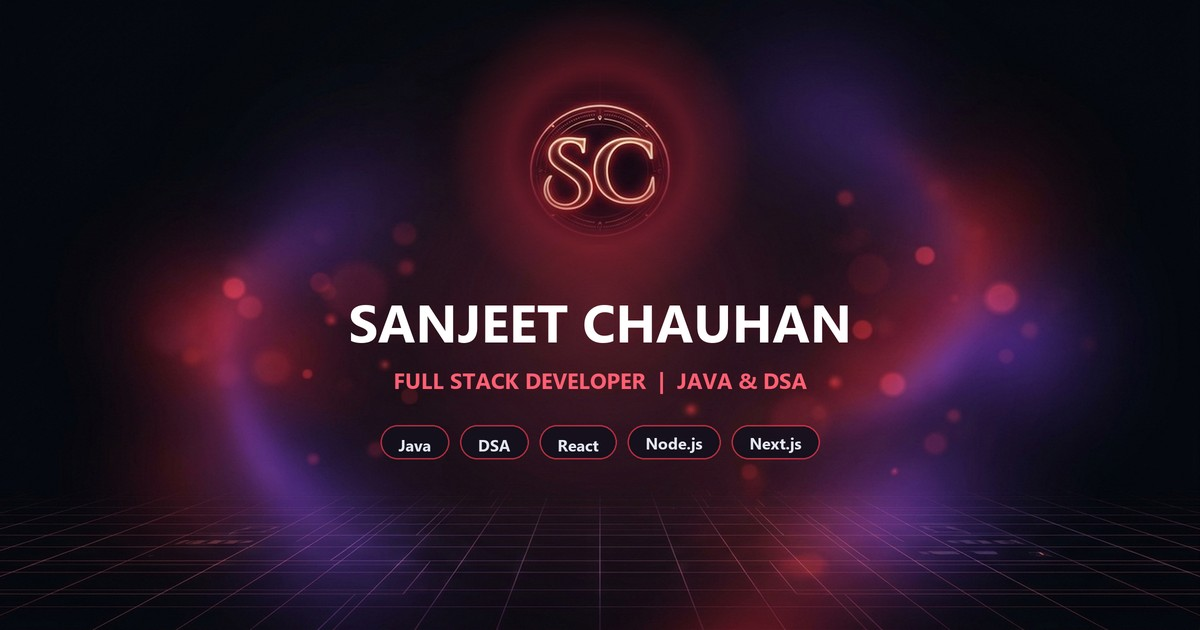
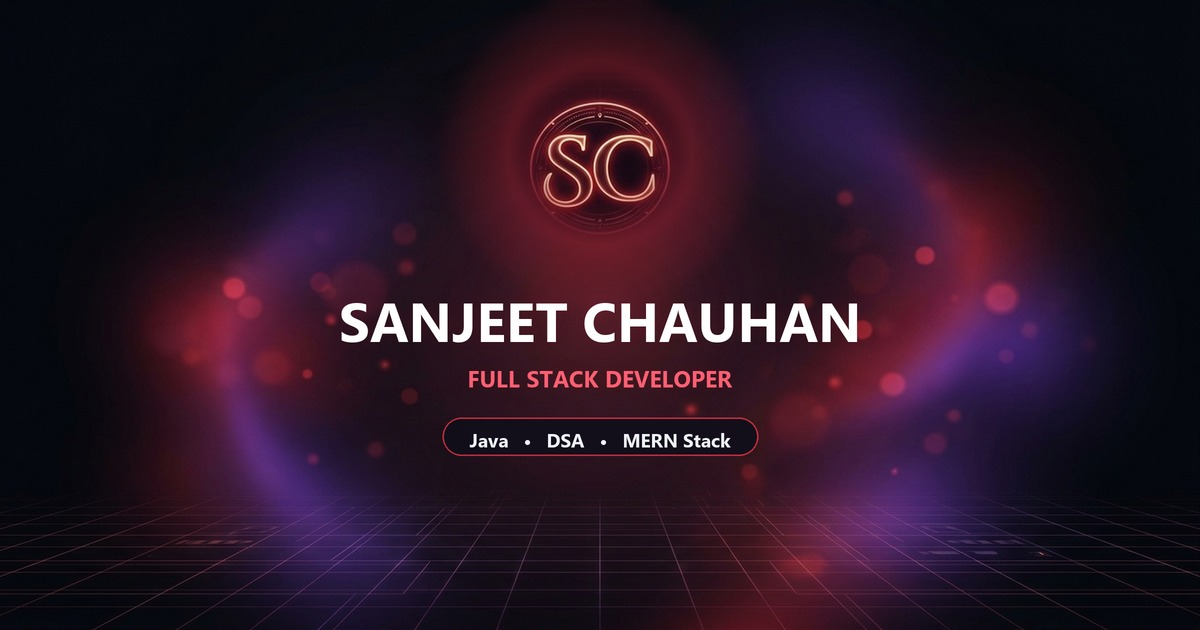
feat(seo): implement WhatsApp large-image preview metadata with portfolio-og-v3.jpg and cache directives

diff --git a/index.html b/index.html
@@ -4,9 +4,10 @@
     <meta charset="UTF-8" />
     <meta name="viewport" content="width=device-width, initial-scale=1.0" />
     <title>Sanjeet Chauhan | Full Stack Developer</title>
+    <meta name="title" content="Sanjeet Chauhan | Full Stack Developer" />
     <meta
       name="description"
-      content="Explore my full-stack projects, Java &amp; DSA skills, achievements, and development journey."
+      content="Explore the portfolio of Sanjeet Chauhan — Full Stack Developer specializing in MERN Stack, Java, DSA, and modern web development. Discover my projects, technical skills, and achievements."
     />
     <meta name="theme-color" content="#08090D" />
     <meta name="author" content="Sanjeet Chauhan" />
@@ -14,32 +15,38 @@
     <!-- Canonical URL -->
     <link rel="canonical" href="https://sanjeet-chauhan.vercel.app/" />
 
+    <!-- Search Engine & Crawler Directives (Enables Large Image Preview) -->
+    <meta name="robots" content="index, follow, max-image-preview:large, max-snippet:-1, max-video-preview:-1" />
+    <meta name="googlebot" content="index, follow, max-image-preview:large, max-snippet:-1, max-video-preview:-1" />
+    <meta name="bingbot" content="index, follow, max-image-preview:large, max-snippet:-1, max-video-preview:-1" />
+
     <!-- Open Graph / WhatsApp / Facebook / LinkedIn -->
     <meta property="og:type" content="website" />
-    <meta property="og:url" content="https://sanjeet-chauhan.vercel.app/" />
     <meta property="og:site_name" content="Sanjeet Chauhan Portfolio" />
     <meta property="og:title" content="Sanjeet Chauhan | Full Stack Developer" />
     <meta
       property="og:description"
-      content="Explore my full-stack projects, Java &amp; DSA skills, achievements, and development journey."
+      content="Explore the portfolio of Sanjeet Chauhan — Full Stack Developer specializing in MERN Stack, Java, DSA, and modern web development. Discover my projects, technical skills, and achievements."
     />
-    <meta property="og:image" content="https://sanjeet-chauhan.vercel.app/portfolio-og-v2.jpg" />
-    <meta property="og:image:secure_url" content="https://sanjeet-chauhan.vercel.app/portfolio-og-v2.jpg" />
+    <meta property="og:url" content="https://sanjeet-chauhan.vercel.app/" />
+    <meta property="og:image" content="https://sanjeet-chauhan.vercel.app/portfolio-og-v3.jpg" />
+    <meta property="og:image:secure_url" content="https://sanjeet-chauhan.vercel.app/portfolio-og-v3.jpg" />
     <meta property="og:image:type" content="image/jpeg" />
     <meta property="og:image:width" content="1200" />
     <meta property="og:image:height" content="630" />
-    <meta property="og:image:alt" content="Sanjeet Chauhan | Full Stack Developer" />
-    <link rel="image_src" href="https://sanjeet-chauhan.vercel.app/portfolio-og-v2.jpg" />
+    <meta property="og:image:alt" content="Sanjeet Chauhan — Full Stack Developer Portfolio" />
+    <link rel="image_src" href="https://sanjeet-chauhan.vercel.app/portfolio-og-v3.jpg" />
 
-    <!-- Twitter Card -->
+    <!-- Twitter Card (Large Image) -->
     <meta name="twitter:card" content="summary_large_image" />
     <meta name="twitter:url" content="https://sanjeet-chauhan.vercel.app/" />
     <meta name="twitter:title" content="Sanjeet Chauhan | Full Stack Developer" />
     <meta
       name="twitter:description"
-      content="Explore my full-stack projects, Java &amp; DSA skills, achievements, and development journey."
+      content="Explore the portfolio of Sanjeet Chauhan — Full Stack Developer specializing in MERN Stack, Java, DSA, and modern web development."
     />
-    <meta name="twitter:image" content="https://sanjeet-chauhan.vercel.app/portfolio-og-v2.jpg" />
+    <meta name="twitter:image" content="https://sanjeet-chauhan.vercel.app/portfolio-og-v3.jpg" />
+    <meta name="twitter:image:alt" content="Sanjeet Chauhan — Full Stack Developer Portfolio" />
     <link rel="icon" type="image/svg+xml" href="/favicon.svg" />
     <script type="application/ld+json">
       {

diff --git a/src/lib/share.ts b/src/lib/share.ts
@@ -15,7 +15,8 @@
 
 export const PORTFOLIO_SHARE_DATA = {
   title: 'Sanjeet Chauhan | Full Stack Developer',
-  description: 'Explore my projects, skills, and achievements.',
+  description:
+    'Explore the portfolio of Sanjeet Chauhan — Full Stack Developer specializing in MERN Stack, Java, DSA, and modern web development. Discover my projects, technical skills, and achievements.',
   url: 'https://sanjeet-chauhan.vercel.app',
   get messageText(): string {
     return `${this.title}\n${this.description}\n${this.url}`

diff --git a/scripts/generate_og.py b/scripts/generate_og.py
@@ -54,48 +54,38 @@ def generate():
     n_bbox = text_draw.textbbox((0, 0), name, font=font_name)
     ntw = n_bbox[2] - n_bbox[0]
     nth = n_bbox[3] - n_bbox[1]
-    y_name = 570
+    y_name = 565
 
     for off in range(4, 25, 5):
         glow_draw.text((cx - ntw//2, y_name), name, font=font_name, fill=(255, 45, 65, 50))
     text_draw.text((cx - ntw//2, y_name), name, font=font_name, fill=(255, 255, 255, 255))
 
-    # Role
-    role = 'FULL STACK DEVELOPER  |  JAVA & DSA'
+    # Subtitle: FULL STACK DEVELOPER
+    role = 'FULL STACK DEVELOPER'
     r_bbox = text_draw.textbbox((0, 0), role, font=font_role)
     rtw = r_bbox[2] - r_bbox[0]
     rth = r_bbox[3] - r_bbox[1]
-    y_role = 730
+    y_role = 725
 
-    glow_draw.text((cx - rtw//2, y_role), role, font=font_role, fill=(255, 50, 75, 140))
+    glow_draw.text((cx - rtw//2, y_role), role, font=font_role, fill=(255, 50, 75, 150))
     text_draw.text((cx - rtw//2, y_role), role, font=font_role, fill=(255, 95, 115, 255))
 
-    # Pills
-    pills = ['Java', 'DSA', 'React', 'Node.js', 'Next.js']
-    pill_pads_h = 36
-    pill_h = 68
-    pill_gap = 22
+    # Supporting Text pill: Java • DSA • MERN Stack
+    pill_str = 'Java   •   DSA   •   MERN Stack'
+    font_pill = ImageFont.truetype(r'C:\Windows\Fonts\segoeuib.ttf', 38)
+    pb = text_draw.textbbox((0, 0), pill_str, font=font_pill)
+    ptw = pb[2] - pb[0]
+    pth = pb[3] - pb[1]
 
-    pill_widths = []
-    for p in pills:
-        pb = text_draw.textbbox((0, 0), p, font=font_badge)
-        pill_widths.append((pb[2] - pb[0]) + pill_pads_h * 2)
+    pill_pad_x = 54
+    pill_h = 76
+    pill_w = ptw + pill_pad_x * 2
+    pill_x = cx - pill_w // 2
+    y_pill = 835
 
-    total_pills_w = sum(pill_widths) + pill_gap * (len(pills) - 1)
-    start_x = cx - total_pills_w // 2
-    y_pills = 850
-
-    curr_x = start_x
-    for i, p in enumerate(pills):
-        pw = pill_widths[i]
-        pb = text_draw.textbbox((0, 0), p, font=font_badge)
-        ptw = pb[2] - pb[0]
-        pth = pb[3] - pb[1]
-        
-        art_draw.rounded_rectangle([curr_x, y_pills, curr_x + pw, y_pills + pill_h], 
-                                   radius=pill_h//2, fill=(18, 16, 28, 225), outline=(255, 60, 80, 160), width=3)
-        text_draw.text((curr_x + (pw - ptw)//2, y_pills + (pill_h - pth)//2 - 4), p, font=font_badge, fill=(235, 240, 250, 245))
-        curr_x += pw + pill_gap
+    art_draw.rounded_rectangle([pill_x, y_pill, pill_x + pill_w, y_pill + pill_h],
+                               radius=pill_h//2, fill=(16, 14, 26, 235), outline=(255, 59, 78, 175), width=3)
+    text_draw.text((pill_x + pill_pad_x, y_pill + (pill_h - pth)//2 - 4), pill_str, font=font_pill, fill=(240, 243, 250, 255))
 
     glow_layer = glow_layer.filter(ImageFilter.GaussianBlur(radius=20))
 
@@ -106,13 +96,13 @@ def generate():
 
     final = comp.resize((1200, 630), Image.Resampling.LANCZOS).convert('RGB')
     
-    # Save portfolio-og-v2.jpg
-    final.save(os.path.join(public_dir, 'portfolio-og-v2.jpg'), quality=90, optimize=True)
-    # Save og.jpg and og.png fallbacks
-    final.save(os.path.join(public_dir, 'og.jpg'), quality=90, optimize=True)
+    # Save portfolio-og-v3.jpg, portfolio-og-v2.jpg, og-image.jpg, and og.jpg
+    for fn in ['portfolio-og-v3.jpg', 'portfolio-og-v2.jpg', 'og-image.jpg', 'og.jpg']:
+        out_path = os.path.join(public_dir, fn)
+        final.save(out_path, quality=92, optimize=True)
     final.save(os.path.join(public_dir, 'og.png'), optimize=True)
     
-    print('Generated public/portfolio-og-v2.jpg, og.jpg and og.png successfully!')
+    print('Generated public/portfolio-og-v3.jpg, portfolio-og-v2.jpg, og-image.jpg successfully!')
 
 if __name__ == '__main__':
     generate()
